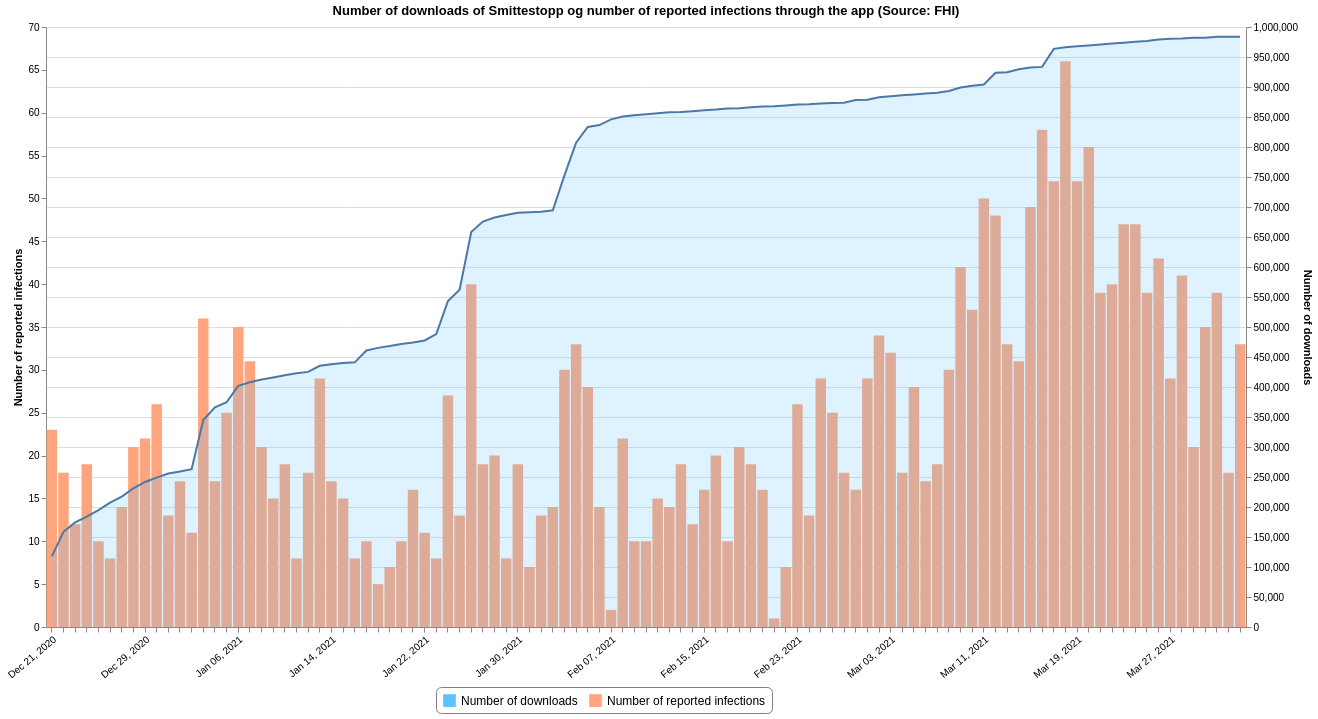
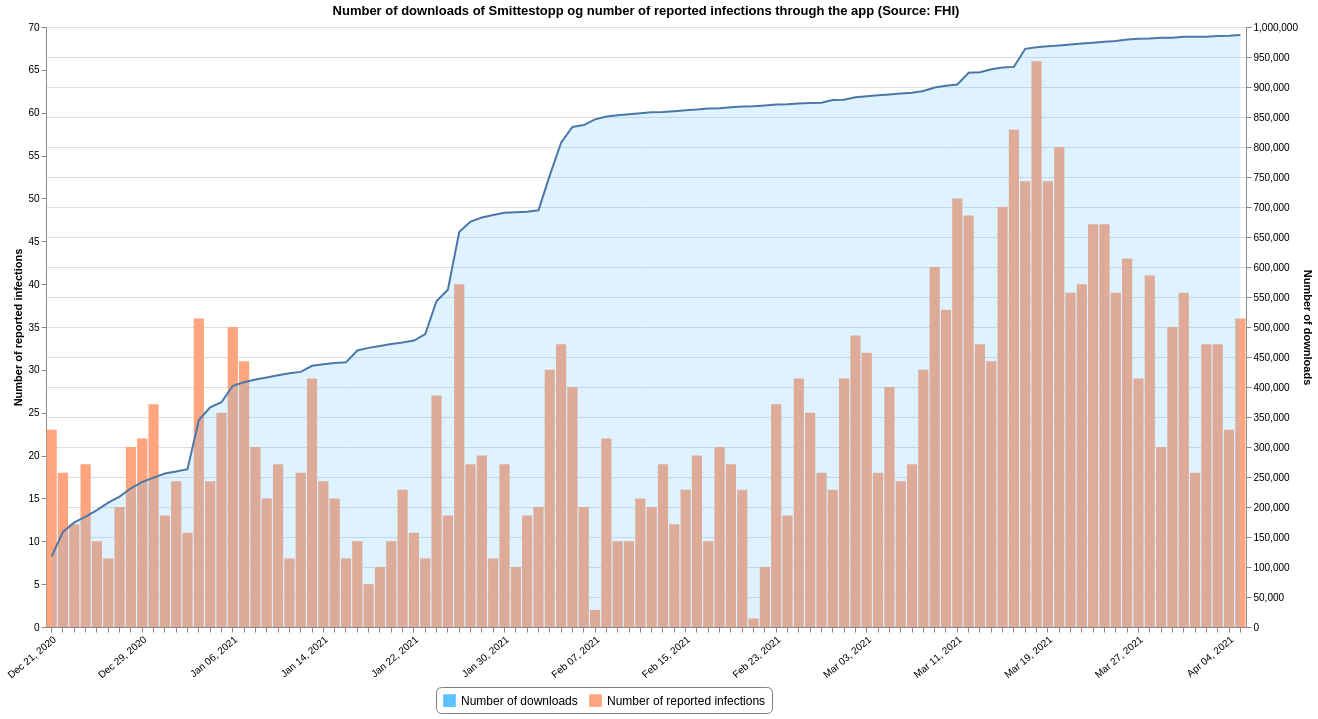
Updated 2021-04-06 14:40

diff --git a/README.md b/README.md
@@ -17,7 +17,7 @@ This repository contains datasets of daily time-series data related to COVID-19 
 |[Tested Lab](#tested_labcsv)|FHI|2021-04-06 13:30:41+02:00|[<center>csv</center>](https://raw.githubusercontent.com/frefrik/c19norge-data/main/data/tested_lab.csv)|[<center>preview</center>](data/tested_lab.csv)|
 |[Transport](#transportcsv)|FHI|2021-04-06 09:30:44+02:00|[<center>csv</center>](https://raw.githubusercontent.com/frefrik/c19norge-data/main/data/transport.csv)|[<center>preview</center>](data/transport.csv)|
 |[Vaccine Doses](#vaccine_dosescsv)|FHI|2021-04-06 13:30:45+02:00|[<center>csv</center>](https://raw.githubusercontent.com/frefrik/c19norge-data/main/data/vaccine_doses.csv)|[<center>preview</center>](data/vaccine_doses.csv)|
-|[Smittestopp](#smittestoppcsv)|FHI|2021-04-03 09:31:02+02:00|[<center>csv</center>](https://raw.githubusercontent.com/frefrik/c19norge-data/main/data/smittestopp.csv)|[<center>preview</center>](data/smittestopp.csv)|
+|[Smittestopp](#smittestoppcsv)|FHI|2021-04-06 14:40:49+02:00|[<center>csv</center>](https://raw.githubusercontent.com/frefrik/c19norge-data/main/data/smittestopp.csv)|[<center>preview</center>](data/smittestopp.csv)|
 <!-- table ends -->
 
 ## Datafiles
